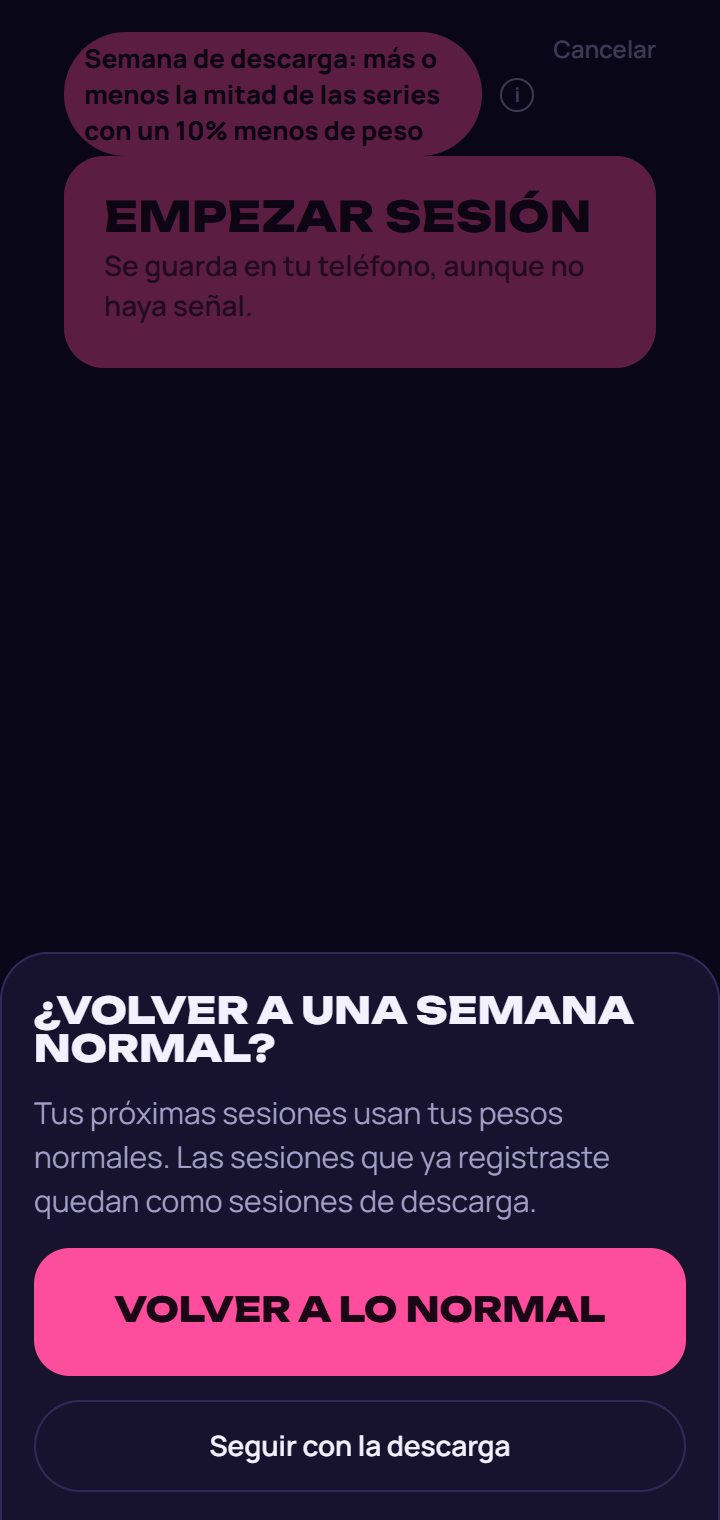
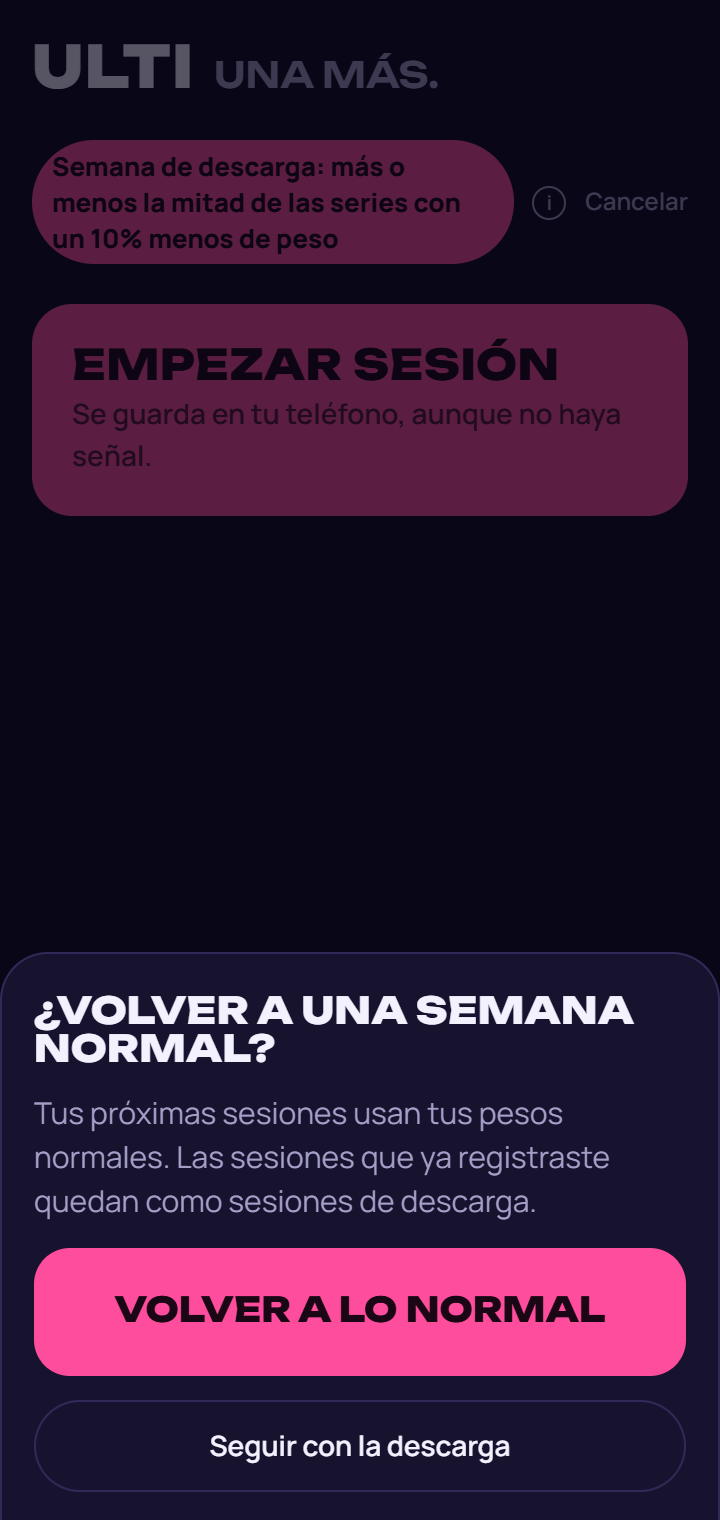
A cancelled self-started Deload Week leaves no trace for suggestions; Cancel centred on the badge row; real-layout screenshots

Changed region(s): [[0.0306, 0.0, 0.9778, 0.3401], [0.7944, 0.0309, 0.8861, 0.0618]]

diff --git a/app/src/training.test.ts b/app/src/training.test.ts
@@ -1042,6 +1042,24 @@ test('cancelling a Deload Week offline is stored and synced as a dismissal, the 
   training.close();
 });
 
+test('a Deload Week the lifter started and cancelled leaves no trace: a suggestion in a later week is still offered', async () => {
+  const network = server();
+  network.offline = true;
+  const phone = anasPhone(network);
+  const first = await phone.open();
+  await benchSession(first, [[60, 10], [60, 10]]);
+  first.close();
+
+  const mistap = await phone.open(Date.UTC(2026, 11, 7, 21, 5));
+  await mistap.startDeload();
+  await mistap.cancelDeload();
+  mistap.close();
+
+  const later = await phone.open(Date.UTC(2026, 11, 14, 21, 5));
+  expect((await later.deload()).suggestion).toBe('time');
+  later.close();
+});
+
 test('a suggested Deload Week that is accepted and then cancelled is not suggested again that week', async () => {
   const network = server();
   network.offline = true;

diff --git a/app/src/training.ts b/app/src/training.ts
@@ -665,7 +665,8 @@ export async function openTraining(userId: string, options: Options) {
           rule: { repMin: planned.repMin, repMax: planned.repMax, incrementKg: exercise.incrementKg },
         });
       }
-      const dismissed = (await db.getAll('deloads')).filter(({ status }) => status === 'dismissed').map(({ week }) => week);
+      // Only dismissed suggestions keep it quiet: a Deload Week the lifter started and cancelled leaves no trace.
+      const dismissed = (await db.getAll('deloads')).filter(({ status, origin }) => status === 'dismissed' && origin === 'suggested').map(({ week }) => week);
       return {
         active: history.deloadWeeks!.includes(weekStart(today)),
         canStart: canStartDeload(history, today),

diff --git a/app/src/styles.css b/app/src/styles.css
@@ -1371,6 +1371,10 @@ button.cell {
   padding: 0;
   font-size: 12px;
 }
+/* On the Deload Week badge row, Cancel sits centred on the line, not at its top. */
+.go-heavier .btn-link.inline {
+  align-self: center;
+}
 .badge {
   padding: 4px 10px;
   border-radius: 999px;
